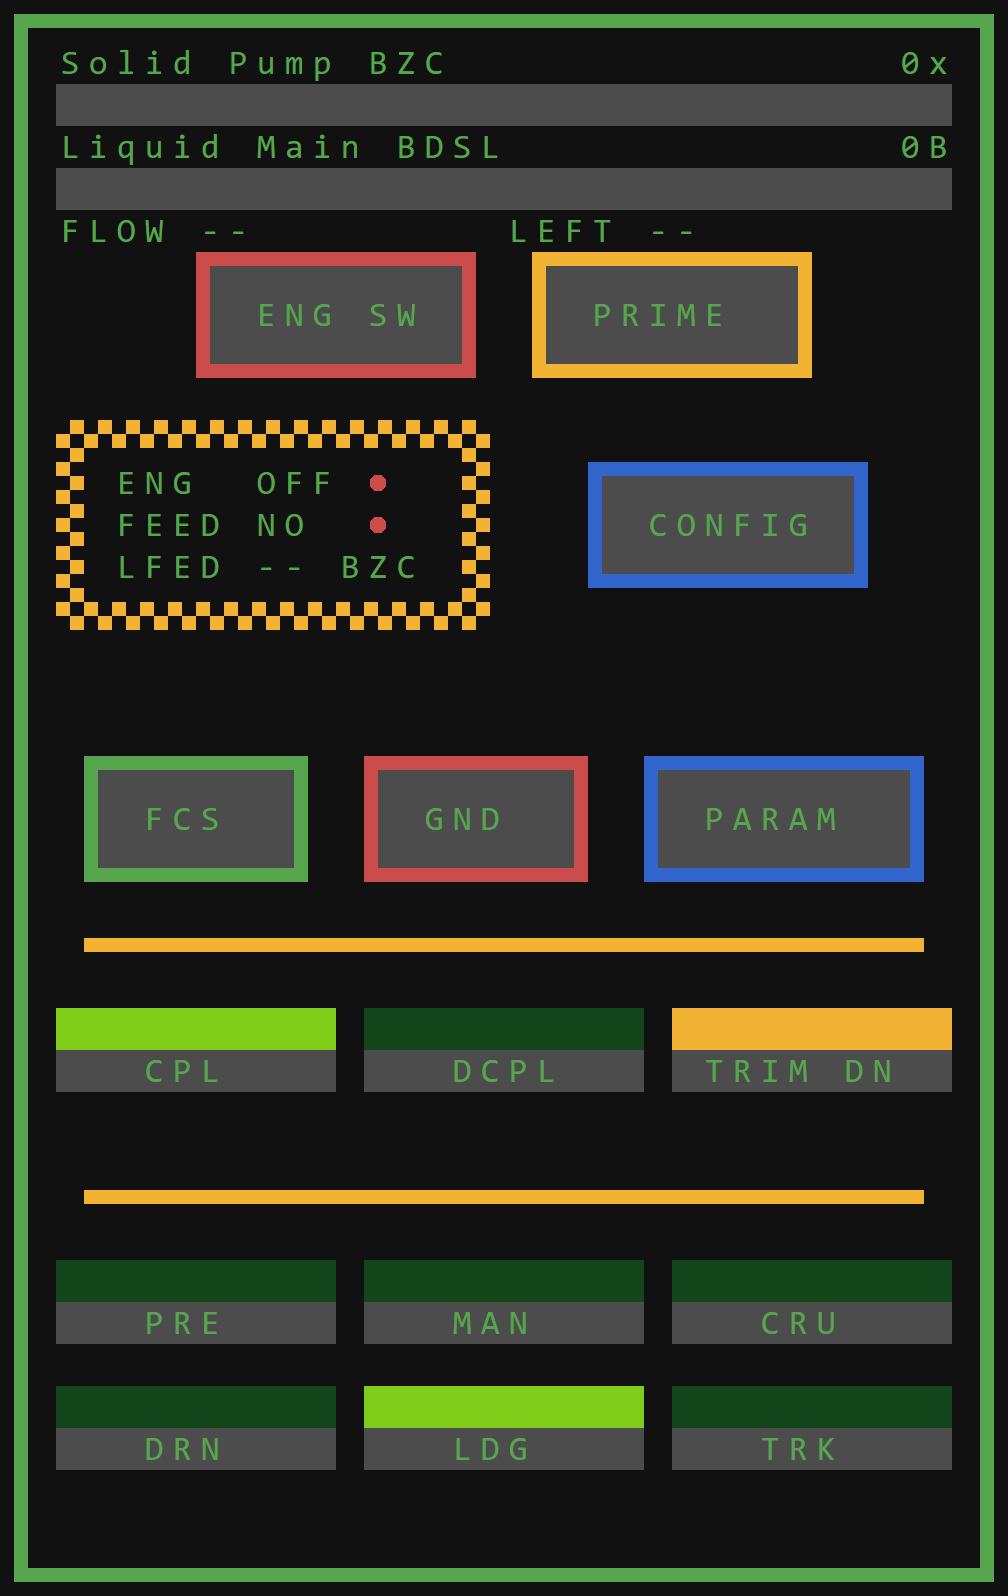
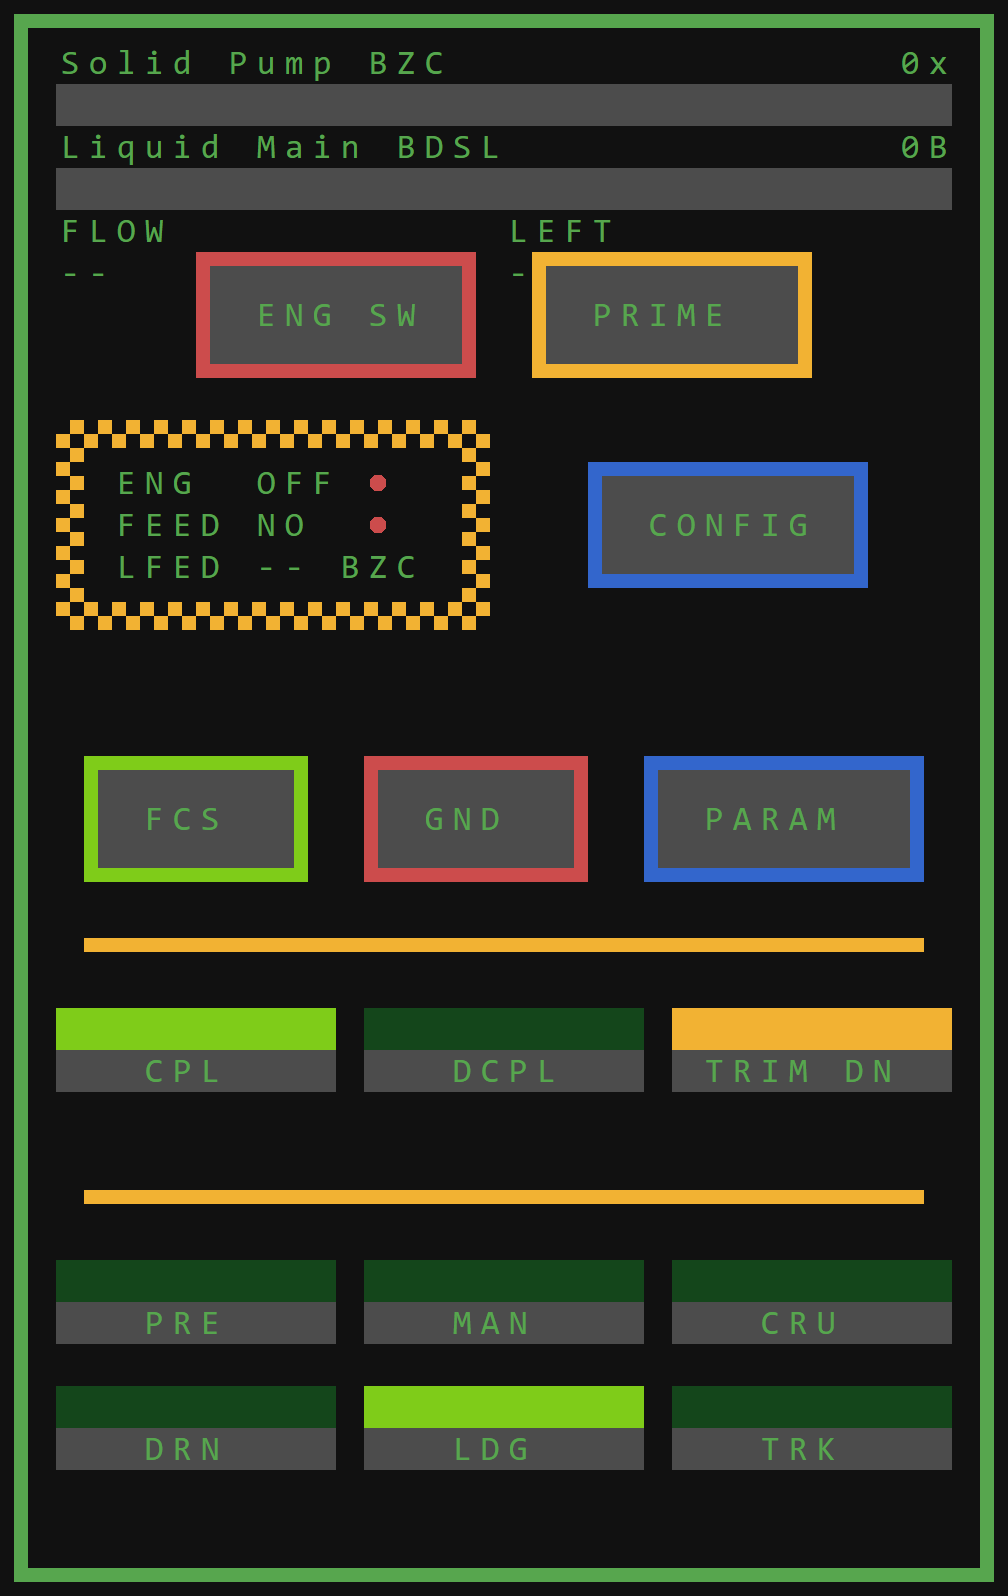
chore(render): regen flight mocks + gallery for the colour swap
Claude-Session: https://claude.ai/code/session_01KgHo8LE4utivgmVMdZNFhV

Changed region(s): [[0.0615, 0.4605, 0.3075, 0.5526]]

diff --git a/tools/render/out/gallery.html b/tools/render/out/gallery.html
@@ -497,7 +497,7 @@
 <rect x="0" y="378" width="14" height="21" fill="#57a64e"/>
 <rect x="14" y="378" width="28" height="21" fill="#111111"/>
 <rect x="42" y="378" width="98" height="21" fill="#4c4c4c"/>
-<rect x="140" y="378" width="14" height="21" fill="#57a64e"/>
+<rect x="140" y="378" width="14" height="21" fill="#7fcc19"/>
 <rect x="154" y="378" width="28" height="21" fill="#111111"/>
 <rect x="182" y="378" width="98" height="21" fill="#4c4c4c"/>
 <rect x="280" y="378" width="14" height="21" fill="#cc4c4c"/>
@@ -508,7 +508,7 @@
 <rect x="0" y="399" width="14" height="21" fill="#57a64e"/>
 <rect x="14" y="399" width="28" height="21" fill="#111111"/>
 <rect x="42" y="399" width="98" height="21" fill="#4c4c4c"/>
-<rect x="140" y="399" width="14" height="21" fill="#57a64e"/>
+<rect x="140" y="399" width="14" height="21" fill="#7fcc19"/>
 <rect x="154" y="399" width="28" height="21" fill="#111111"/>
 <rect x="182" y="399" width="98" height="21" fill="#4c4c4c"/>
 <rect x="280" y="399" width="14" height="21" fill="#cc4c4c"/>
@@ -518,7 +518,7 @@
 <rect x="462" y="399" width="42" height="21" fill="#111111"/>
 <rect x="0" y="420" width="14" height="21" fill="#57a64e"/>
 <rect x="14" y="420" width="28" height="21" fill="#111111"/>
-<rect x="42" y="420" width="112" height="21" fill="#57a64e"/>
+<rect x="42" y="420" width="112" height="21" fill="#7fcc19"/>
 <rect x="154" y="420" width="28" height="21" fill="#111111"/>
 <rect x="182" y="420" width="112" height="21" fill="#cc4c4c"/>
 <rect x="294" y="420" width="28" height="21" fill="#111111"/>
@@ -1078,22 +1078,22 @@
 <rect x="0" y="378" width="7" height="7" fill="#111111"/>
 <rect x="0" y="385" width="7" height="7" fill="#111111"/>
 <rect x="0" y="392" width="7" height="7" fill="#111111"/>
-<rect x="42" y="378" width="7" height="7" fill="#57a64e"/>
-<rect x="49" y="378" width="7" height="7" fill="#57a64e"/>
-<rect x="42" y="385" width="7" height="7" fill="#57a64e"/>
-<rect x="42" y="392" width="7" height="7" fill="#57a64e"/>
-<rect x="56" y="378" width="7" height="7" fill="#57a64e"/>
-<rect x="63" y="378" width="7" height="7" fill="#57a64e"/>
-<rect x="70" y="378" width="7" height="7" fill="#57a64e"/>
-<rect x="77" y="378" width="7" height="7" fill="#57a64e"/>
-<rect x="84" y="378" width="7" height="7" fill="#57a64e"/>
-<rect x="91" y="378" width="7" height="7" fill="#57a64e"/>
-<rect x="98" y="378" width="7" height="7" fill="#57a64e"/>
-<rect x="105" y="378" width="7" height="7" fill="#57a64e"/>
-<rect x="112" y="378" width="7" height="7" fill="#57a64e"/>
-<rect x="119" y="378" width="7" height="7" fill="#57a64e"/>
-<rect x="126" y="378" width="7" height="7" fill="#57a64e"/>
-<rect x="133" y="378" width="7" height="7" fill="#57a64e"/>
+<rect x="42" y="378" width="7" height="7" fill="#7fcc19"/>
+<rect x="49" y="378" width="7" height="7" fill="#7fcc19"/>
+<rect x="42" y="385" width="7" height="7" fill="#7fcc19"/>
+<rect x="42" y="392" width="7" height="7" fill="#7fcc19"/>
+<rect x="56" y="378" width="7" height="7" fill="#7fcc19"/>
+<rect x="63" y="378" width="7" height="7" fill="#7fcc19"/>
+<rect x="70" y="378" width="7" height="7" fill="#7fcc19"/>
+<rect x="77" y="378" width="7" height="7" fill="#7fcc19"/>
+<rect x="84" y="378" width="7" height="7" fill="#7fcc19"/>
+<rect x="91" y="378" width="7" height="7" fill="#7fcc19"/>
+<rect x="98" y="378" width="7" height="7" fill="#7fcc19"/>
+<rect x="105" y="378" width="7" height="7" fill="#7fcc19"/>
+<rect x="112" y="378" width="7" height="7" fill="#7fcc19"/>
+<rect x="119" y="378" width="7" height="7" fill="#7fcc19"/>
+<rect x="126" y="378" width="7" height="7" fill="#7fcc19"/>
+<rect x="133" y="378" width="7" height="7" fill="#7fcc19"/>
 <rect x="140" y="385" width="7" height="7" fill="#4c4c4c"/>
 <rect x="140" y="392" width="7" height="7" fill="#4c4c4c"/>
 <rect x="182" y="378" width="7" height="7" fill="#cc4c4c"/>
@@ -1142,9 +1142,9 @@
 <rect x="0" y="399" width="7" height="7" fill="#111111"/>
 <rect x="0" y="406" width="7" height="7" fill="#111111"/>
 <rect x="0" y="413" width="7" height="7" fill="#111111"/>
-<rect x="42" y="399" width="7" height="7" fill="#57a64e"/>
-<rect x="42" y="406" width="7" height="7" fill="#57a64e"/>
-<rect x="42" y="413" width="7" height="7" fill="#57a64e"/>
+<rect x="42" y="399" width="7" height="7" fill="#7fcc19"/>
+<rect x="42" y="406" width="7" height="7" fill="#7fcc19"/>
+<rect x="42" y="413" width="7" height="7" fill="#7fcc19"/>
 <rect x="140" y="399" width="7" height="7" fill="#4c4c4c"/>
 <rect x="140" y="406" width="7" height="7" fill="#4c4c4c"/>
 <rect x="140" y="413" width="7" height="7" fill="#4c4c4c"/>
@@ -1761,7 +1761,7 @@
 <rect x="0" y="378" width="14" height="21" fill="#57a64e"/>
 <rect x="14" y="378" width="28" height="21" fill="#111111"/>
 <rect x="42" y="378" width="98" height="21" fill="#4c4c4c"/>
-<rect x="140" y="378" width="14" height="21" fill="#57a64e"/>
+<rect x="140" y="378" width="14" height="21" fill="#7fcc19"/>
 <rect x="154" y="378" width="28" height="21" fill="#111111"/>
 <rect x="182" y="378" width="98" height="21" fill="#4c4c4c"/>
 <rect x="280" y="378" width="14" height="21" fill="#cc4c4c"/>
@@ -1772,7 +1772,7 @@
 <rect x="0" y="399" width="14" height="21" fill="#57a64e"/>
 <rect x="14" y="399" width="28" height="21" fill="#111111"/>
 <rect x="42" y="399" width="98" height="21" fill="#4c4c4c"/>
-<rect x="140" y="399" width="14" height="21" fill="#57a64e"/>
+<rect x="140" y="399" width="14" height="21" fill="#7fcc19"/>
 <rect x="154" y="399" width="28" height="21" fill="#111111"/>
 <rect x="182" y="399" width="98" height="21" fill="#4c4c4c"/>
 <rect x="280" y="399" width="14" height="21" fill="#cc4c4c"/>
@@ -1782,7 +1782,7 @@
 <rect x="462" y="399" width="42" height="21" fill="#111111"/>
 <rect x="0" y="420" width="14" height="21" fill="#57a64e"/>
 <rect x="14" y="420" width="28" height="21" fill="#111111"/>
-<rect x="42" y="420" width="112" height="21" fill="#57a64e"/>
+<rect x="42" y="420" width="112" height="21" fill="#7fcc19"/>
 <rect x="154" y="420" width="28" height="21" fill="#111111"/>
 <rect x="182" y="420" width="112" height="21" fill="#cc4c4c"/>
 <rect x="294" y="420" width="28" height="21" fill="#111111"/>
@@ -2331,22 +2331,22 @@
 <rect x="0" y="378" width="7" height="7" fill="#111111"/>
 <rect x="0" y="385" width="7" height="7" fill="#111111"/>
 <rect x="0" y="392" width="7" height="7" fill="#111111"/>
-<rect x="42" y="378" width="7" height="7" fill="#57a64e"/>
-<rect x="49" y="378" width="7" height="7" fill="#57a64e"/>
-<rect x="42" y="385" width="7" height="7" fill="#57a64e"/>
-<rect x="42" y="392" width="7" height="7" fill="#57a64e"/>
-<rect x="56" y="378" width="7" height="7" fill="#57a64e"/>
-<rect x="63" y="378" width="7" height="7" fill="#57a64e"/>
-<rect x="70" y="378" width="7" height="7" fill="#57a64e"/>
-<rect x="77" y="378" width="7" height="7" fill="#57a64e"/>
-<rect x="84" y="378" width="7" height="7" fill="#57a64e"/>
-<rect x="91" y="378" width="7" height="7" fill="#57a64e"/>
-<rect x="98" y="378" width="7" height="7" fill="#57a64e"/>
-<rect x="105" y="378" width="7" height="7" fill="#57a64e"/>
-<rect x="112" y="378" width="7" height="7" fill="#57a64e"/>
-<rect x="119" y="378" width="7" height="7" fill="#57a64e"/>
-<rect x="126" y="378" width="7" height="7" fill="#57a64e"/>
-<rect x="133" y="378" width="7" height="7" fill="#57a64e"/>
+<rect x="42" y="378" width="7" height="7" fill="#7fcc19"/>
+<rect x="49" y="378" width="7" height="7" fill="#7fcc19"/>
+<rect x="42" y="385" width="7" height="7" fill="#7fcc19"/>
+<rect x="42" y="392" width="7" height="7" fill="#7fcc19"/>
+<rect x="56" y="378" width="7" height="7" fill="#7fcc19"/>
+<rect x="63" y="378" width="7" height="7" fill="#7fcc19"/>
+<rect x="70" y="378" width="7" height="7" fill="#7fcc19"/>
+<rect x="77" y="378" width="7" height="7" fill="#7fcc19"/>
+<rect x="84" y="378" width="7" height="7" fill="#7fcc19"/>
+<rect x="91" y="378" width="7" height="7" fill="#7fcc19"/>
+<rect x="98" y="378" width="7" height="7" fill="#7fcc19"/>
+<rect x="105" y="378" width="7" height="7" fill="#7fcc19"/>
+<rect x="112" y="378" width="7" height="7" fill="#7fcc19"/>
+<rect x="119" y="378" width="7" height="7" fill="#7fcc19"/>
+<rect x="126" y="378" width="7" height="7" fill="#7fcc19"/>
+<rect x="133" y="378" width="7" height="7" fill="#7fcc19"/>
 <rect x="140" y="385" width="7" height="7" fill="#4c4c4c"/>
 <rect x="140" y="392" width="7" height="7" fill="#4c4c4c"/>
 <rect x="182" y="378" width="7" height="7" fill="#cc4c4c"/>
@@ -2395,9 +2395,9 @@
 <rect x="0" y="399" width="7" height="7" fill="#111111"/>
 <rect x="0" y="406" width="7" height="7" fill="#111111"/>
 <rect x="0" y="413" width="7" height="7" fill="#111111"/>
-<rect x="42" y="399" width="7" height="7" fill="#57a64e"/>
-<rect x="42" y="406" width="7" height="7" fill="#57a64e"/>
-<rect x="42" y="413" width="7" height="7" fill="#57a64e"/>
+<rect x="42" y="399" width="7" height="7" fill="#7fcc19"/>
+<rect x="42" y="406" width="7" height="7" fill="#7fcc19"/>
+<rect x="42" y="413" width="7" height="7" fill="#7fcc19"/>
 <rect x="140" y="399" width="7" height="7" fill="#4c4c4c"/>
 <rect x="140" y="406" width="7" height="7" fill="#4c4c4c"/>
 <rect x="140" y="413" width="7" height="7" fill="#4c4c4c"/>
@@ -3042,7 +3042,7 @@
 <rect x="0" y="378" width="14" height="21" fill="#57a64e"/>
 <rect x="14" y="378" width="28" height="21" fill="#111111"/>
 <rect x="42" y="378" width="98" height="21" fill="#4c4c4c"/>
-<rect x="140" y="378" width="14" height="21" fill="#57a64e"/>
+<rect x="140" y="378" width="14" height="21" fill="#7fcc19"/>
 <rect x="154" y="378" width="28" height="21" fill="#111111"/>
 <rect x="182" y="378" width="98" height="21" fill="#4c4c4c"/>
 <rect x="280" y="378" width="14" height="21" fill="#cc4c4c"/>
@@ -3053,7 +3053,7 @@
 <rect x="0" y="399" width="14" height="21" fill="#57a64e"/>
 <rect x="14" y="399" width="28" height="21" fill="#111111"/>
 <rect x="42" y="399" width="98" height="21" fill="#4c4c4c"/>
-<rect x="140" y="399" width="14" height="21" fill="#57a64e"/>
+<rect x="140" y="399" width="14" height="21" fill="#7fcc19"/>
 <rect x="154" y="399" width="28" height="21" fill="#111111"/>
 <rect x="182" y="399" width="98" height="21" fill="#4c4c4c"/>
 <rect x="280" y="399" width="14" height="21" fill="#cc4c4c"/>
@@ -3063,7 +3063,7 @@
 <rect x="462" y="399" width="42" height="21" fill="#111111"/>
 <rect x="0" y="420" width="14" height="21" fill="#57a64e"/>
 <rect x="14" y="420" width="28" height="21" fill="#111111"/>
-<rect x="42" y="420" width="112" height="21" fill="#57a64e"/>
+<rect x="42" y="420" width="112" height="21" fill="#7fcc19"/>
 <rect x="154" y="420" width="28" height="21" fill="#111111"/>
 <rect x="182" y="420" width="112" height="21" fill="#cc4c4c"/>
 <rect x="294" y="420" width="28" height="21" fill="#111111"/>
@@ -3687,22 +3687,22 @@
 <rect x="0" y="378" width="7" height="7" fill="#111111"/>
 <rect x="0" y="385" width="7" height="7" fill="#111111"/>
 <rect x="0" y="392" width="7" height="7" fill="#111111"/>
-<rect x="42" y="378" width="7" height="7" fill="#57a64e"/>
-<rect x="49" y="378" width="7" height="7" fill="#57a64e"/>
-<rect x="42" y="385" width="7" height="7" fill="#57a64e"/>
-<rect x="42" y="392" width="7" height="7" fill="#57a64e"/>
-<rect x="56" y="378" width="7" height="7" fill="#57a64e"/>
-<rect x="63" y="378" width="7" height="7" fill="#57a64e"/>
-<rect x="70" y="378" width="7" height="7" fill="#57a64e"/>
-<rect x="77" y="378" width="7" height="7" fill="#57a64e"/>
-<rect x="84" y="378" width="7" height="7" fill="#57a64e"/>
-<rect x="91" y="378" width="7" height="7" fill="#57a64e"/>
-<rect x="98" y="378" width="7" height="7" fill="#57a64e"/>
-<rect x="105" y="378" width="7" height="7" fill="#57a64e"/>
-<rect x="112" y="378" width="7" height="7" fill="#57a64e"/>
-<rect x="119" y="378" width="7" height="7" fill="#57a64e"/>
-<rect x="126" y="378" width="7" height="7" fill="#57a64e"/>
-<rect x="133" y="378" width="7" height="7" fill="#57a64e"/>
+<rect x="42" y="378" width="7" height="7" fill="#7fcc19"/>
+<rect x="49" y="378" width="7" height="7" fill="#7fcc19"/>
+<rect x="42" y="385" width="7" height="7" fill="#7fcc19"/>
+<rect x="42" y="392" width="7" height="7" fill="#7fcc19"/>
+<rect x="56" y="378" width="7" height="7" fill="#7fcc19"/>
+<rect x="63" y="378" width="7" height="7" fill="#7fcc19"/>
+<rect x="70" y="378" width="7" height="7" fill="#7fcc19"/>
+<rect x="77" y="378" width="7" height="7" fill="#7fcc19"/>
+<rect x="84" y="378" width="7" height="7" fill="#7fcc19"/>
+<rect x="91" y="378" width="7" height="7" fill="#7fcc19"/>
+<rect x="98" y="378" width="7" height="7" fill="#7fcc19"/>
+<rect x="105" y="378" width="7" height="7" fill="#7fcc19"/>
+<rect x="112" y="378" width="7" height="7" fill="#7fcc19"/>
+<rect x="119" y="378" width="7" height="7" fill="#7fcc19"/>
+<rect x="126" y="378" width="7" height="7" fill="#7fcc19"/>
+<rect x="133" y="378" width="7" height="7" fill="#7fcc19"/>
 <rect x="140" y="385" width="7" height="7" fill="#4c4c4c"/>
 <rect x="140" y="392" width="7" height="7" fill="#4c4c4c"/>
 <rect x="182" y="378" width="7" height="7" fill="#cc4c4c"/>
@@ -3751,9 +3751,9 @@
 <rect x="0" y="399" width="7" height="7" fill="#111111"/>
 <rect x="0" y="406" width="7" height="7" fill="#111111"/>
 <rect x="0" y="413" width="7" height="7" fill="#111111"/>
-<rect x="42" y="399" width="7" height="7" fill="#57a64e"/>
-<rect x="42" y="406" width="7" height="7" fill="#57a64e"/>
-<rect x="42" y="413" width="7" height="7" fill="#57a64e"/>
+<rect x="42" y="399" width="7" height="7" fill="#7fcc19"/>
+<rect x="42" y="406" width="7" height="7" fill="#7fcc19"/>
+<rect x="42" y="413" width="7" height="7" fill="#7fcc19"/>
 <rect x="140" y="399" width="7" height="7" fill="#4c4c4c"/>
 <rect x="140" y="406" width="7" height="7" fill="#4c4c4c"/>
 <rect x="140" y="413" width="7" height="7" fill="#4c4c4c"/>
@@ -5563,13 +5563,13 @@
 <text x="133" y="409.5" fill="#57a64e" font-size="17" text-anchor="middle" dominant-baseline="central">O</text>
 <text x="147" y="409.5" fill="#57a64e" font-size="17" text-anchor="middle" dominant-baseline="central">D</text>
 <text x="161" y="409.5" fill="#57a64e" font-size="17" text-anchor="middle" dominant-baseline="central">E</text>
-<text x="203" y="409.5" fill="#57a64e" font-size="17" text-anchor="middle" dominant-baseline="central">-</text>
-<text x="217" y="409.5" fill="#57a64e" font-size="17" text-anchor="middle" dominant-baseline="central">-</text>
-<text x="231" y="409.5" fill="#57a64e" font-size="17" text-anchor="middle" dominant-baseline="central">/</text>
-<text x="245" y="409.5" fill="#57a64e" font-size="17" text-anchor="middle" dominant-baseline="central">-</text>
-<text x="259" y="409.5" fill="#57a64e" font-size="17" text-anchor="middle" dominant-baseline="central">-</text>
-<text x="273" y="409.5" fill="#57a64e" font-size="17" text-anchor="middle" dominant-baseline="central">-</text>
-<text x="287" y="409.5" fill="#57a64e" font-size="17" text-anchor="middle" dominant-baseline="central">-</text>
+<text x="203" y="409.5" fill="#57a64e" font-size="17" text-anchor="middle" dominant-baseline="central">L</text>
+<text x="217" y="409.5" fill="#57a64e" font-size="17" text-anchor="middle" dominant-baseline="central">D</text>
+<text x="231" y="409.5" fill="#57a64e" font-size="17" text-anchor="middle" dominant-baseline="central">G</text>
+<text x="245" y="409.5" fill="#57a64e" font-size="17" text-anchor="middle" dominant-baseline="central">/</text>
+<text x="259" y="409.5" fill="#57a64e" font-size="17" text-anchor="middle" dominant-baseline="central">C</text>
+<text x="273" y="409.5" fill="#57a64e" font-size="17" text-anchor="middle" dominant-baseline="central">P</text>
+<text x="287" y="409.5" fill="#57a64e" font-size="17" text-anchor="middle" dominant-baseline="central">L</text>
 <text x="63" y="430.5" fill="#57a64e" font-size="17" text-anchor="middle" dominant-baseline="central">A</text>
 <text x="77" y="430.5" fill="#57a64e" font-size="17" text-anchor="middle" dominant-baseline="central">L</text>
 <text x="91" y="430.5" fill="#57a64e" font-size="17" text-anchor="middle" dominant-baseline="central">T</text>
